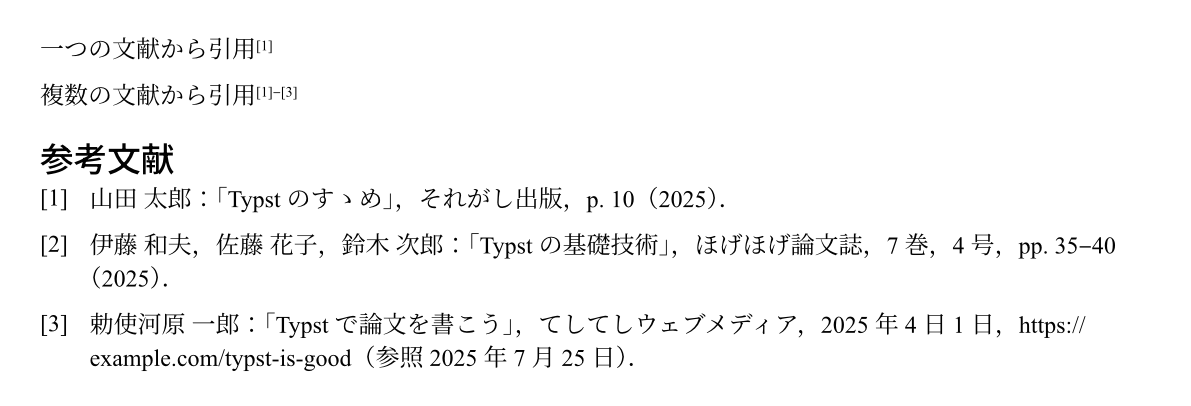
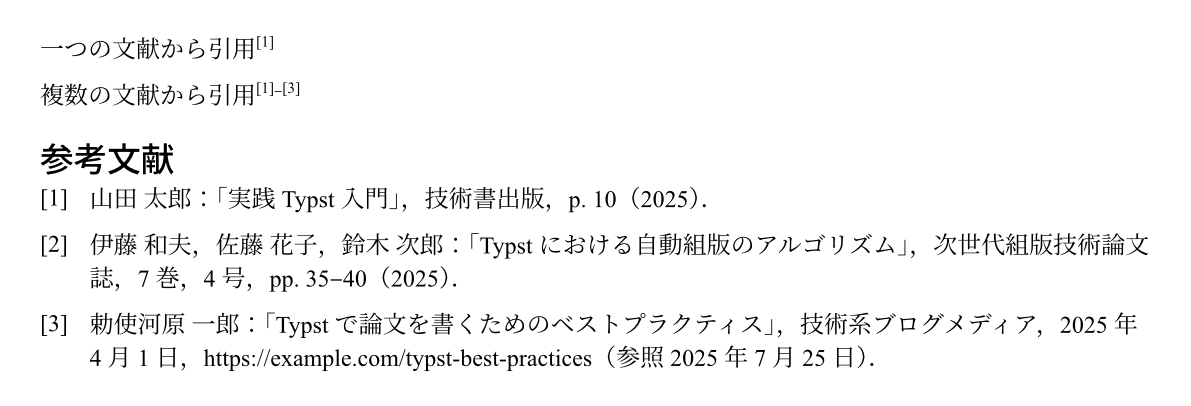
説明を更新

diff --git a/README.md b/README.md
@@ -1,13 +1,49 @@
 # レポート用CSL
 
 学校のレポート用に作ったCSLファイルです。
+引用文献のスタイルを指定することができます。
 日本語の文章で使用することを想定しています。
-ご自由にお使いください。
 
 [report.csl](./report.csl)
 
-**引用スタイルの見本：**
+<p align="center">
+  <img src="./example/example.png" alt="引用スタイルの見本" style="max-width: 800px; width: 100%; border: 1px solid #ddd;">
+</p>
 
-![引用スタイルの見本](./example/example.png)
+## 使用方法
 
-ライセンス：CC0 1.0 Universal（パブリックドメイン）
+### Typst
+
+```typst
+#bibliography("works.yml", style: "report.csl")
+```
+
+文献リストはHayagriva YAMLかBibTeXかで記述できます。
+
+### LaTeX (LuaLaTeX)
+
+LuaLaTeXを使用する場合、`citation-style-language`パッケージを使うことでCSLを直接利用できます。
+
+```tex
+\documentclass{article}
+\usepackage{citation-style-language}
+\cslsetup{style = report.csl}
+\addbibresource{works.bib}
+
+\begin{document}
+引用 \cite{susume}
+\printbibliography
+\end{document}
+```
+
+### LaTeX (Pandoc)
+
+LaTeX (Pandoc)で使用する場合の例です。
+
+```bash
+pandoc input.md --csl=report.csl --bibliography=works.bib -o output.pdf
+```
+
+---
+
+ライセンス：CC0 1.0 Universal
